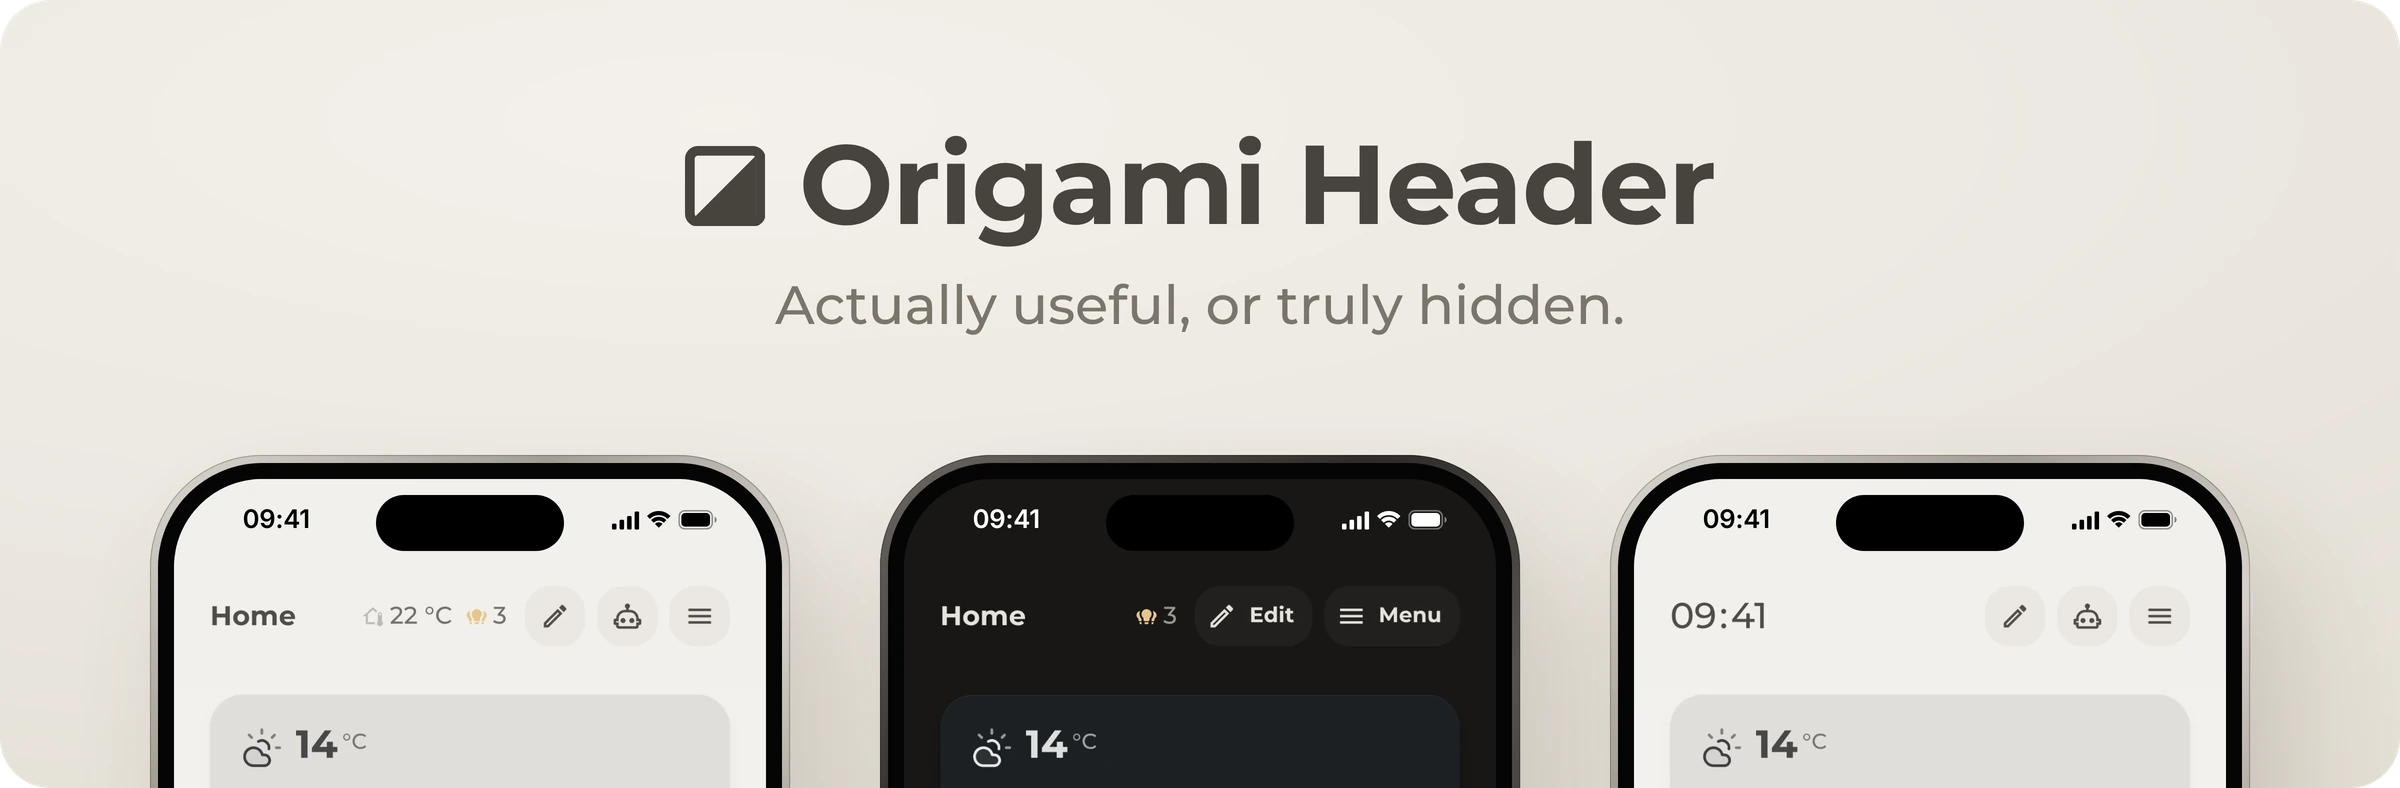
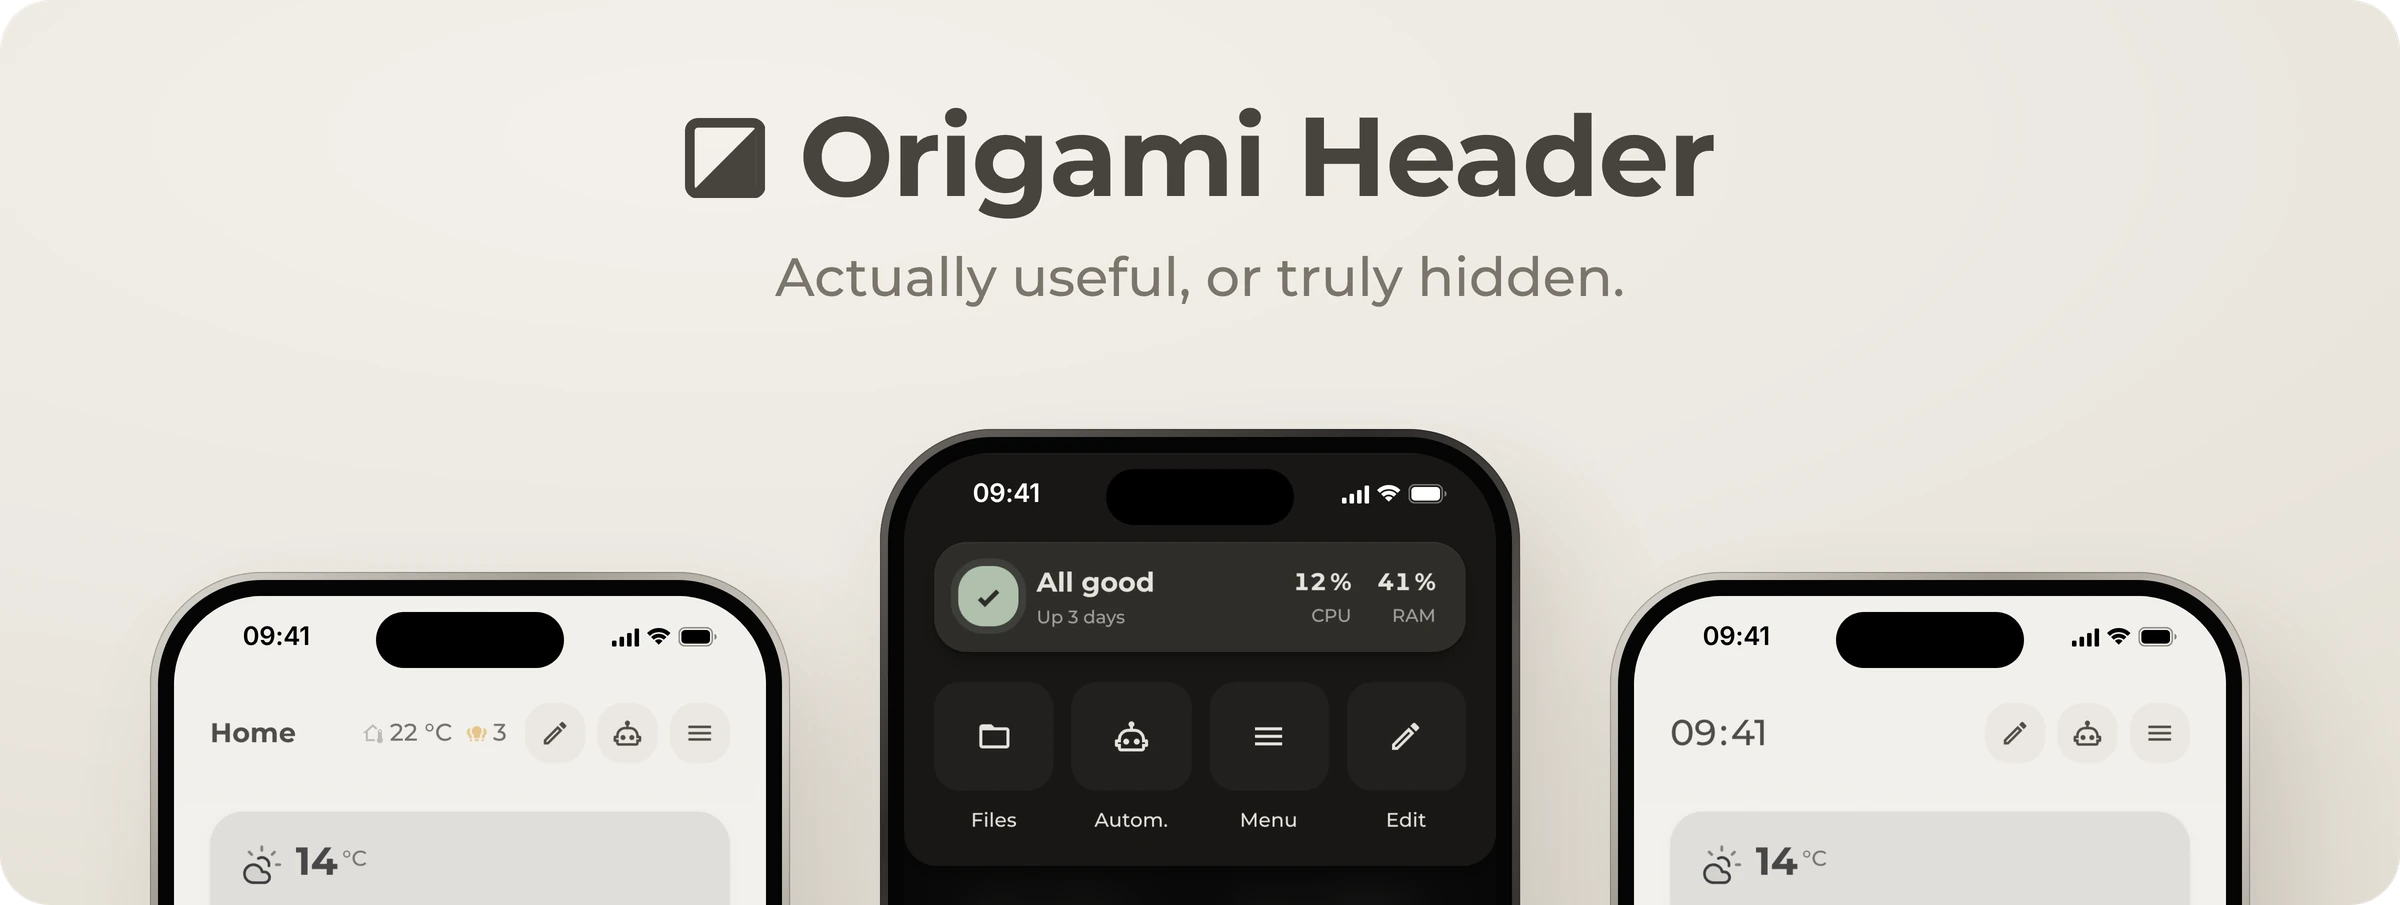
Show the menu in the hero and link what the screenshots use
The middle phone of the hero shows the fold-out menu again. It sits a
bit higher than the two headers, so the whole menu fits while the image
stays low. The README now says that the screenshots use the Origami
theme, dashboard and helpers and Origami Weather, links the menu to its
description in the Origami README, and shows the full config of the
first header, including its css.

diff --git a/README.md b/README.md
@@ -1,4 +1,4 @@
-<img alt="Origami Header above three phones with custom headers: icon buttons, buttons with names and a clock" src="https://raw.githubusercontent.com/hazymorning/origami_header/main/images/hero.webp">
+<img alt="Origami Header above three phones: a custom header, the open fold-out menu and a header with a clock" src="https://raw.githubusercontent.com/hazymorning/origami_header/main/images/hero.webp">
 
 Origami Header replaces the dashboard header in Home Assistant with your own buttons and cards. They can form a new header or a menu that folds out when you tap a card, or you can hide the header completely.
 
@@ -32,12 +32,16 @@ Add the Origami Header card to any view and pick a mode. It changes the header o
 
 <img alt="The three modes on three phones: a custom header, the open fold-out menu and a dashboard without a header" src="https://raw.githubusercontent.com/hazymorning/origami_header/main/images/modes.webp">
 
+<sub>The screenshots use the [Origami](https://github.com/hazymorning/origami) theme and dashboard, with the Slim layout of [Origami Weather](https://github.com/hazymorning/origami_weather#layouts).</sub>
+
 <details>
 <summary><b>Custom header</b></summary>
 
 <br>
 
 Your cards fill the header and the buttons sit on the right. When there isn't enough room, the buttons move to a second row. Buttons work like the button badges of a heading card and can have an icon, a name or both, and `cards` takes any card, like a clock.
+
+This is the first header in the screenshots. Its `css` uses variables of the [Origami theme](https://github.com/hazymorning/origami#theme), and the lights badge counts with one of the [Origami helpers](https://github.com/hazymorning/origami#helpers).
 
 ```yaml
 type: custom:origami-header-card
@@ -47,8 +51,12 @@ cards:
     heading: Home
     badges:
       - type: entity
-        entity: weather.home
-        state_content: temperature
+        entity: sensor.living_room_temperature
+        icon: mdi:home-thermometer-outline
+      - type: entity
+        entity: sensor.lights_on_count
+        icon: mdi:lightbulb-group
+        color: amber
 buttons:
   - icon: mdi:pencil-outline
     special: edit
@@ -58,6 +66,32 @@ buttons:
       navigation_path: /config/automation/dashboard
   - icon: mdi:menu
     special: sidebar
+css: |
+  :host([mode="header"]) .bar {
+    padding: var(--ha-space-3) var(--view-bleed) var(--ha-space-4);
+    border-bottom: none;
+  }
+  :host([mode="header"]) .cards {
+    flex: 1 1 auto;
+    margin-inline-start: calc(-1 * var(--ha-space-1));
+  }
+  :host([mode="header"]) .buttons {
+    gap: var(--ha-space-2);
+  }
+  :host([mode="header"]) .button {
+    height: var(--control-height-icon);
+    min-width: var(--control-height-icon);
+    border-radius: var(--radius-inner);
+    background: var(--fill-subtle);
+    box-shadow: none;
+  }
+  :host([mode="header"]) .button ha-icon {
+    color: var(--color, var(--primary-text-color));
+    --mdc-icon-size: var(--icon-size-s);
+  }
+  :host([mode="header"]) .name {
+    font-weight: var(--ha-font-weight-bold);
+  }
 ```
 
 </details>
@@ -76,6 +110,8 @@ tap_action:
 ```
 
 <img alt="The fold-out menu in list and grid layout" src="https://raw.githubusercontent.com/hazymorning/origami_header/main/images/menu.webp">
+
+The menu in the screenshots is the one from the [Origami dashboard](https://github.com/hazymorning/origami#menu), which also explains its server card.
 
 The menu closes when you tap outside, press Escape, swipe it back or tap one of its buttons. Besides `toggle`, the action also takes `open`, `close`, `edit` and `sidebar`.
 
